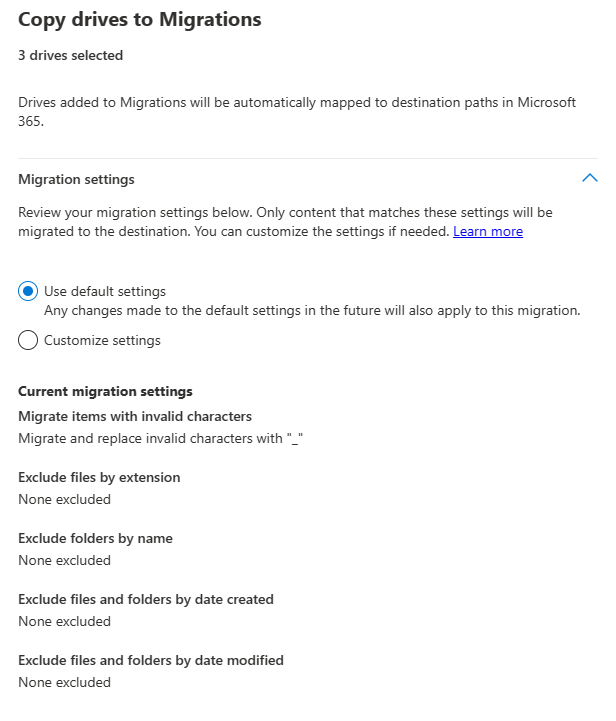
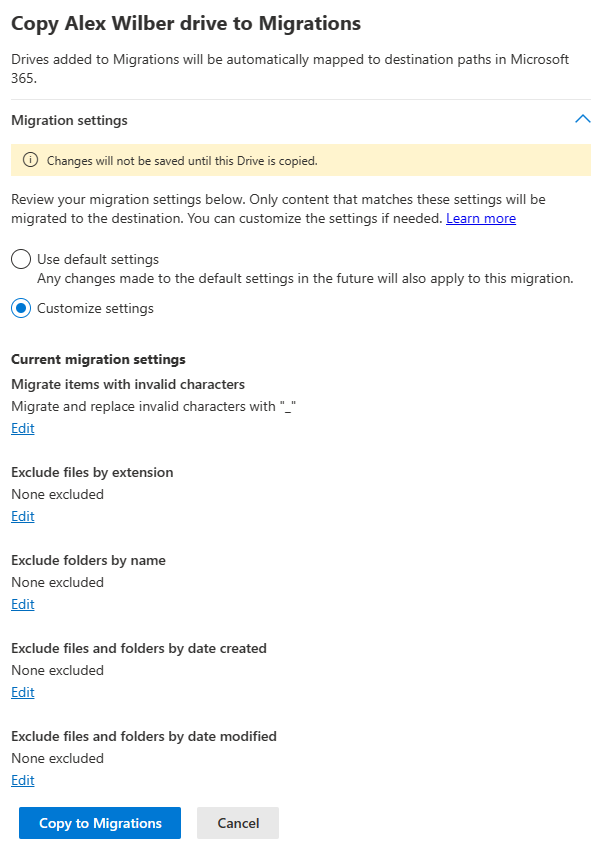
edits
edits

Changed region(s): [[0.0, 0.0, 1.0, 1.0]]

diff --git a/migration/mm-google-step2-scan-assess.md b/migration/mm-google-step2-scan-assess.md
@@ -25,17 +25,18 @@ description: "Step 2:  Scan and assess Google users using Migration Manager."
 
 # Step 2: Scan and assess Google Drives
 
-After you have connected to Google, add the source paths to scan and assess your Google Drives.
+After you have connected to Google, add the Drives to scan and assess.
 
-1. Select **Add source paths** and choose a method: to look for new users in Google Drives, target a single source path, or bulk upload the source paths using a CSV file.
-2. After adding the source, highlight any or all of the drives and then select **Scan**.
+1. Select **Add Drives** and choose a method: to look for new users in Google Drives, target a single source path, or bulk upload the source paths using a CSV file.  You can choose to automatically start scanning or do it later.  However, all drives must be scanned before you can migrate them.
+
+   :::image type="content" source="media/mm-google-add-drive-choices.png" alt-text="select how to add google drives":::
+
+2. After adding the drives, highlight any or all of the drives and then select **Scan** if you haven't already.
 
 >[!Important]
 > The total number cannot exceed 50,000 tasks.
 
-3. Once the scan is complete, a table summary displays to give you an at-a-glance overview of your users. The summary includes content size, migration readiness, and any issues that need attention. 
-4. Review the scanned users. Search for specific text, or select a filter to review the list more easily.
-
+3. Once the scan is complete, a table summary displays to give you an at-a-glance overview of your users. The summary includes content size, migration readiness, and any issues that need attention. Review the scanned users. Search for specific text, or select a filter to review the list more easily or download summary and detailed reports to troubleshoot further.
 
 ## Download reports
 

diff --git a/migration/mm-google-step3-copy-to-migrations.md b/migration/mm-google-step3-copy-to-migrations.md
@@ -23,15 +23,18 @@ search.appverid: MET150
 description: "Learn what the third step in using Migration Manager to migrate Google Drive."
 ---
 
-# Step 3: Copy to migrations tab for Google migration
+# Step 3: Copy to Drive migrations tab for Google migration
 
-After a Google user has been scanned and determined ready, add them to your migration list.  
+After your Google Drives has been scanned, the drive status will show if it is error free and "Ready to migrate".  
 
-1. Select the **Migrations** tab. The table will list all users that have been copied to migration.
-2. Select the users that are ready to be added to the migrations list.
-3. Select **Copy to migrations**
- You can also select multiple users.
-5. Select the **Migrations** tab, and proceed to the next step.
+1. From the **Drives** tab, select all Drives that have a status of "Ready to migrate". 
+2. From the menu bar, select **Copy to Drive migrations**. You can also select one or multiple drives.
+3. A panel will appear to confirm your choices.  **Review your migration settings** and customize as needed.  Note that the changes won't be saved until the Drive has been copied.  
+4. Select **Copy to Migrations**.
+
+:::image type="content" source="media/mm-google-copy-drives-with-settings.png" alt-text="copy google drive and review settings":::
+
+5. If a success message appears; select **Go to Drive migrations**.
 
 
 ## Go to [**Step 4: Review destinations**](mm-google-step4-review-destinations.md)
